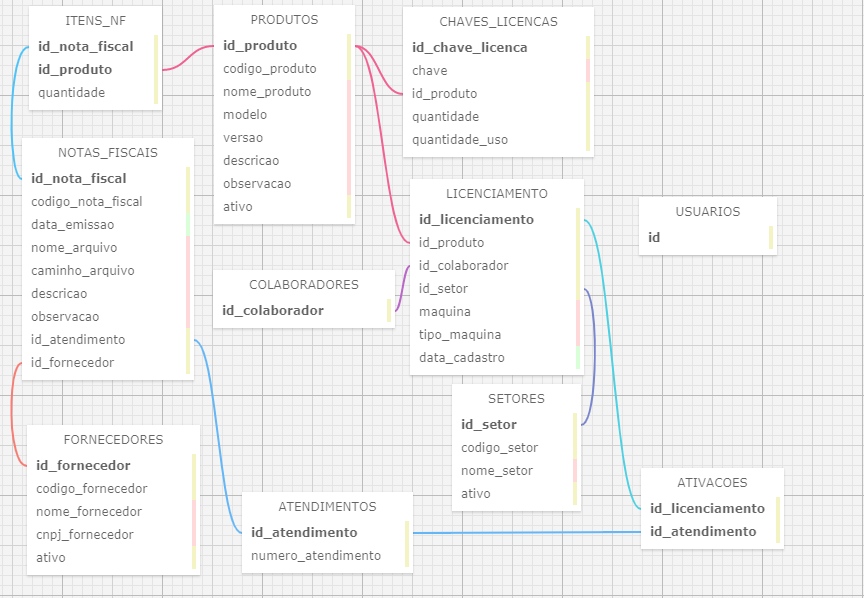
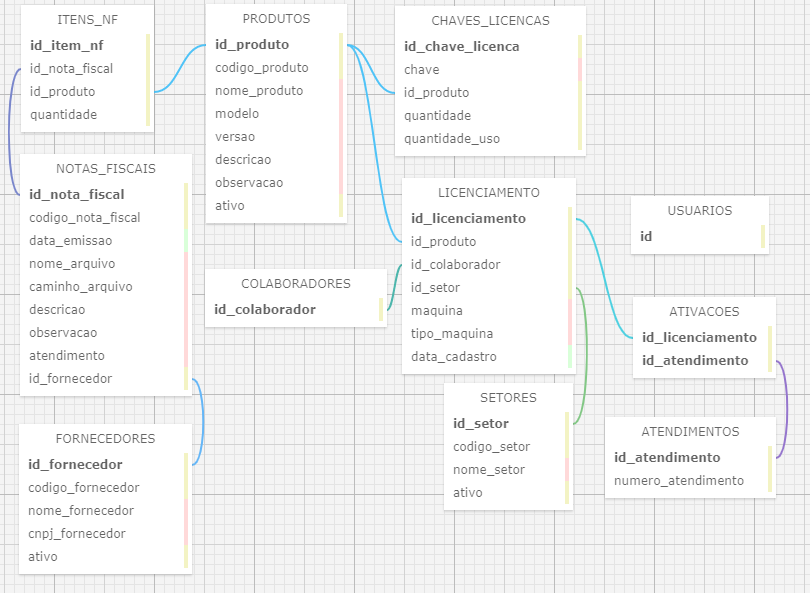
Notafiscal-ms respondendo a GET

diff --git a/notafiscal-ms/src/main/java/br/com/alterdata/notafiscalms/model/ItensNotaFiscal.java b/notafiscal-ms/src/main/java/br/com/alterdata/notafiscalms/model/ItensNotaFiscal.java
@@ -2,38 +2,54 @@ package br.com.alterdata.notafiscalms.model;
 
 import javax.persistence.Column;
 import javax.persistence.Entity;
+import javax.persistence.GeneratedValue;
+import javax.persistence.GenerationType;
 import javax.persistence.Id;
 import javax.persistence.Table;
 
 @Entity
 @Table(name = "itens_nf")
 public class ItensNotaFiscal {
+    @Id
+    @GeneratedValue(strategy = GenerationType.IDENTITY)
+    @Column(name="id_item_nf")
+    private Integer idItemNnf;
+
     @Column(name="id_nota_fiscal")
-    private Integer id_nota_fiscal;
+    private Integer idNotaFiscal;
 
     @Column(name="id_produto")
-    private Integer id_produto;
+    private Integer idProduto;
 
     @Column(name = "quantidade")
     private Integer quantidade;
 
+    
 
     //#region Get / Set
    
-    public Integer getId_nota_fiscal() {
-        return id_nota_fiscal;
+    public Integer getIdItemNnf() {
+        return idItemNnf;
     }
 
-    public void setId_nota_fiscal(Integer id_nota_fiscal) {
-        this.id_nota_fiscal = id_nota_fiscal;
+    public void setIdItemNnf(Integer idItemNnf) {
+        this.idItemNnf = idItemNnf;
     }
 
-    public Integer getId_produto() {
-        return id_produto;
+    public Integer getIdNotaFiscal() {
+        return idNotaFiscal;
     }
 
-    public void setId_produto(Integer id_produto) {
-        this.id_produto = id_produto;
+    public void setIdNotaFiscal(Integer idNotaFiscal) {
+        this.idNotaFiscal = idNotaFiscal;
+    }
+
+    public Integer getIdProduto() {
+        return idProduto;
+    }
+
+    public void setIdProduto(Integer idProduto) {
+        this.idProduto = idProduto;
     }
 
     public Integer getQuantidade() {
@@ -43,6 +59,7 @@ public class ItensNotaFiscal {
     public void setQuantidade(Integer quantidade) {
         this.quantidade = quantidade;
     }
+
 
     //#endregion
 

diff --git a/notafiscal-ms/src/main/java/br/com/alterdata/notafiscalms/model/NotaFiscal.java b/notafiscal-ms/src/main/java/br/com/alterdata/notafiscalms/model/NotaFiscal.java
@@ -13,6 +13,7 @@ import javax.persistence.JoinColumn;
 import javax.persistence.JoinTable;
 import javax.persistence.ManyToMany;
 import javax.persistence.ManyToOne;
+import javax.persistence.OneToMany;
 import javax.persistence.Table;
 
 import br.com.alterdata.notafiscalms.dto.Fornecedor;
@@ -50,14 +51,13 @@ public class NotaFiscal {
     @JoinColumn(name = "id_fornecedor", referencedColumnName = "id_fornecedor")
     private Fornecedor fornecedor;
 
-    @ManyToMany(fetch = FetchType.EAGER)
+    @OneToMany(fetch = FetchType.EAGER)
     @JoinTable(
         name = "itens_nf"
         , joinColumns = @JoinColumn(name = "id_nota_fiscal", referencedColumnName = "id_nota_fiscal")
-        , inverseJoinColumns = @JoinColumn(name = "id_produto", referencedColumnName = "id_produto")
+        , inverseJoinColumns = @JoinColumn(name = "id_item_nf", referencedColumnName = "id_item_nf")
     )
     private List<ItensNotaFiscal> itens;
-
 
     //#region Get / Set
     public Integer getIdNotaFiscal() {
@@ -139,8 +139,6 @@ public class NotaFiscal {
     public void setItens(List<ItensNotaFiscal> itens) {
         this.itens = itens;
     }
-
-
 
     //#endregion
 
